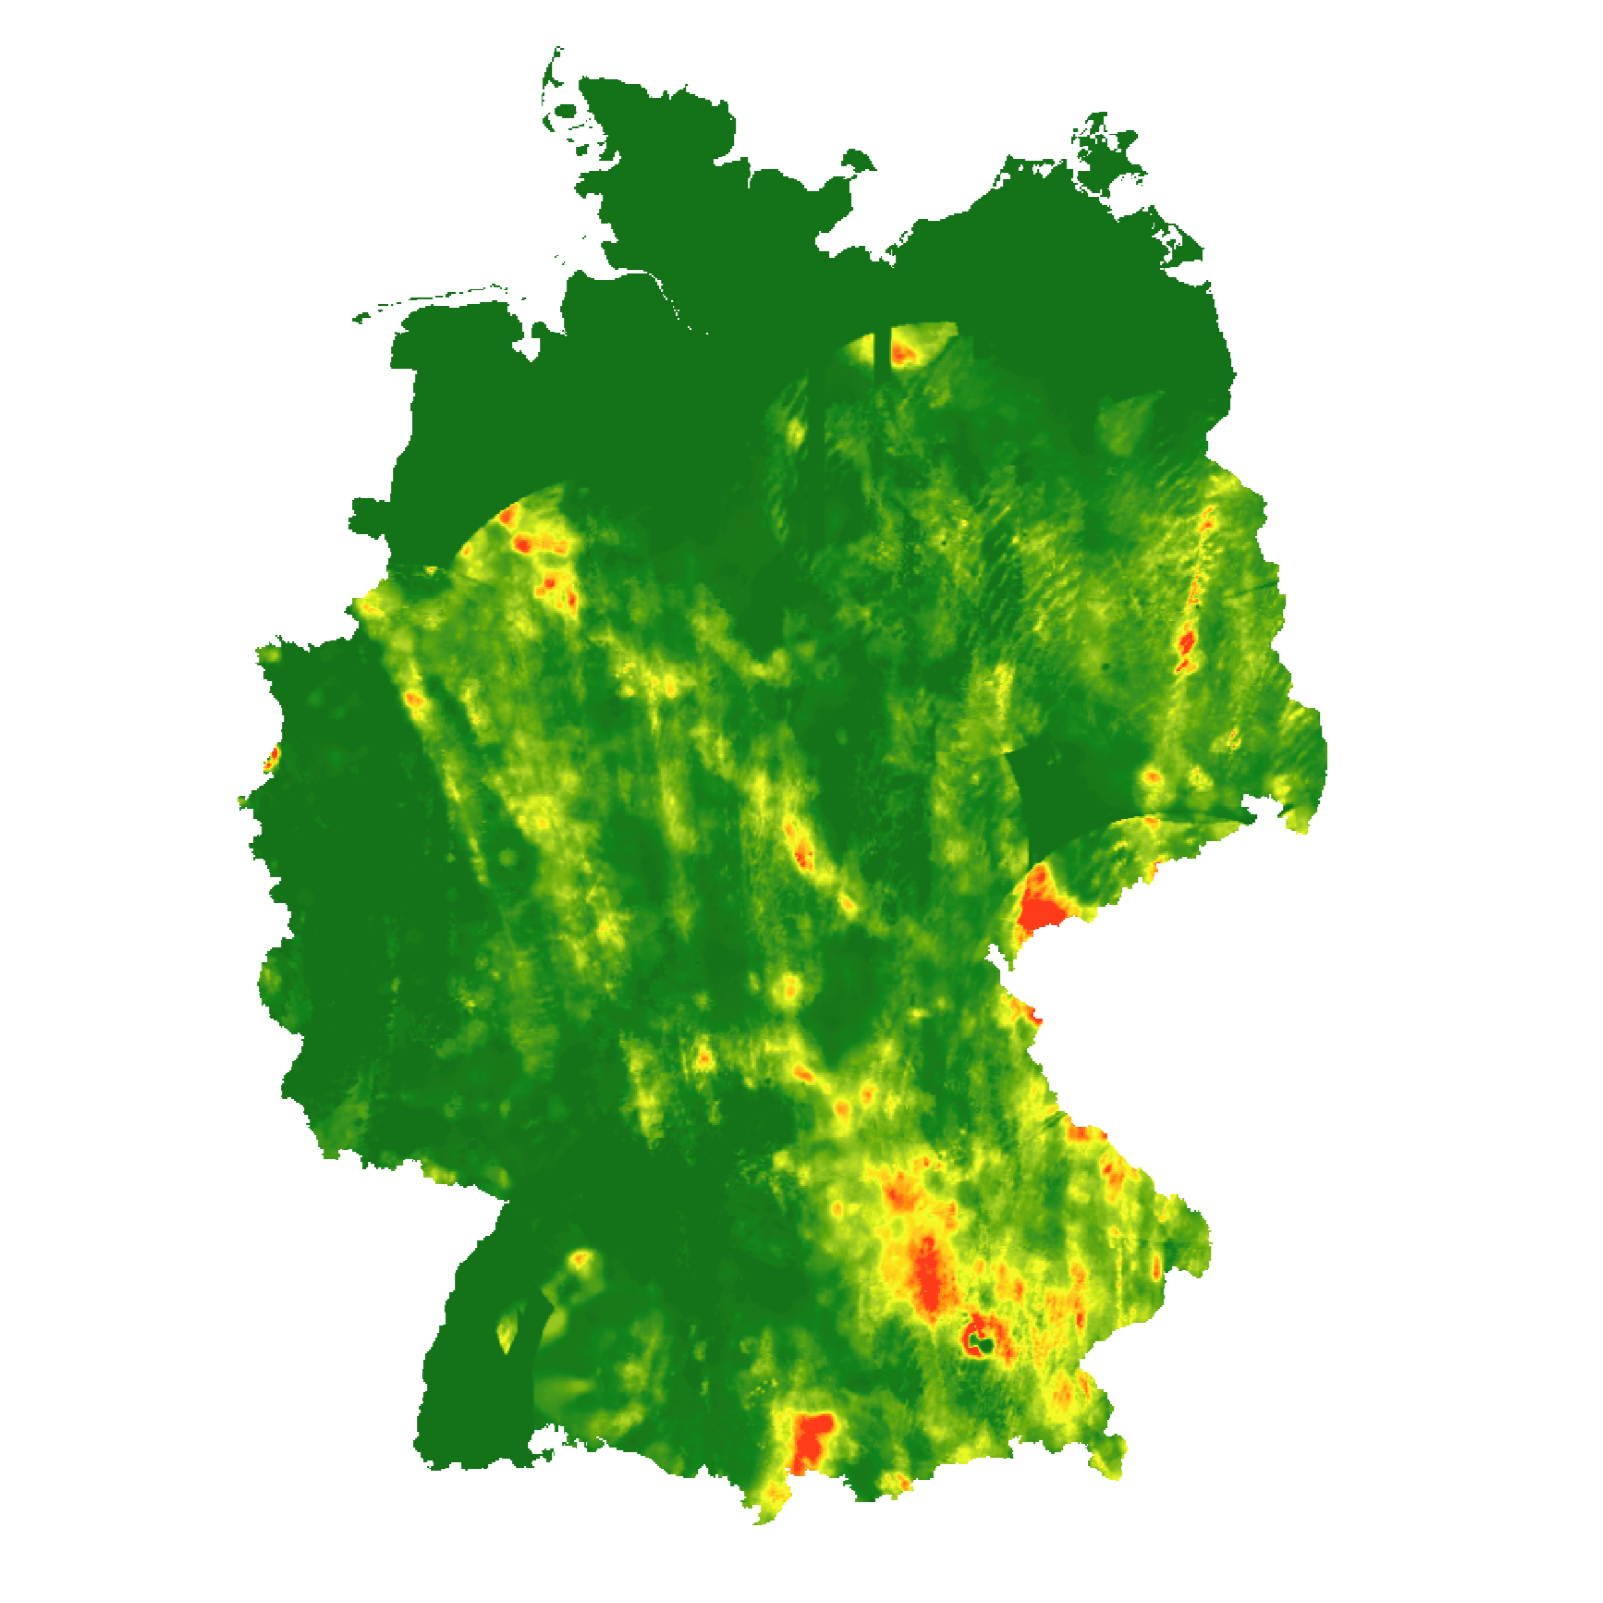
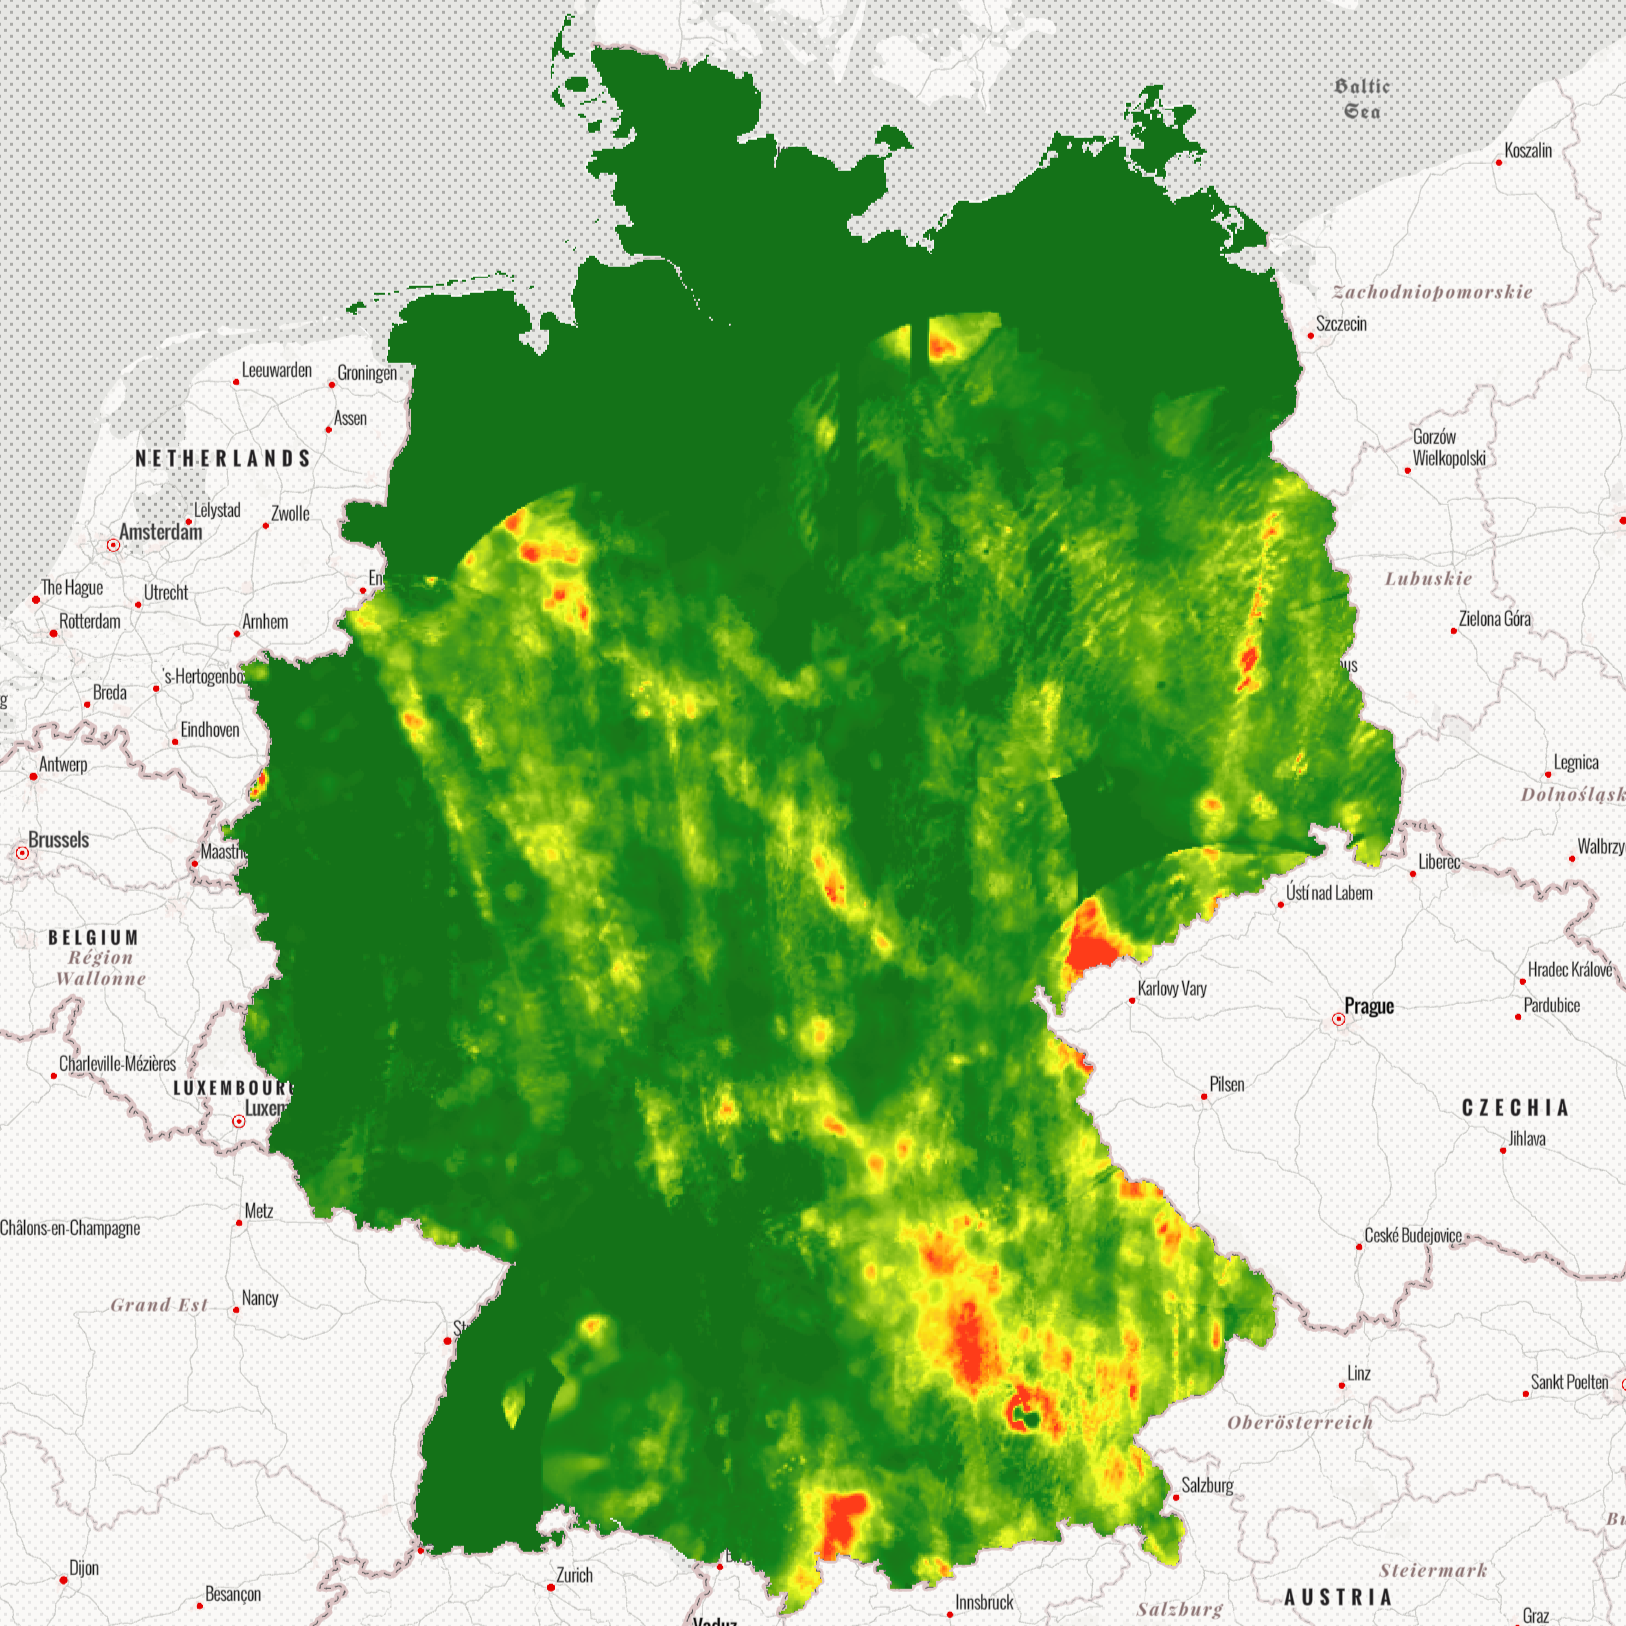
land suitability project update

diff --git a/_pages/repositories.md b/_pages/repositories.md
@@ -2,7 +2,7 @@
 layout: page
 permalink: /repositories/
 title: repositories
-description: Edit the `_data/repositories.yml` and change the `github_users` and `github_repos` lists to include your own GitHub profile and repositories.
+description: My GitHub repositories showcasing research projects in remote sensing, machine learning, and geospatial analysis for environmental applications.
 nav: true
 nav_order: 3
 ---
